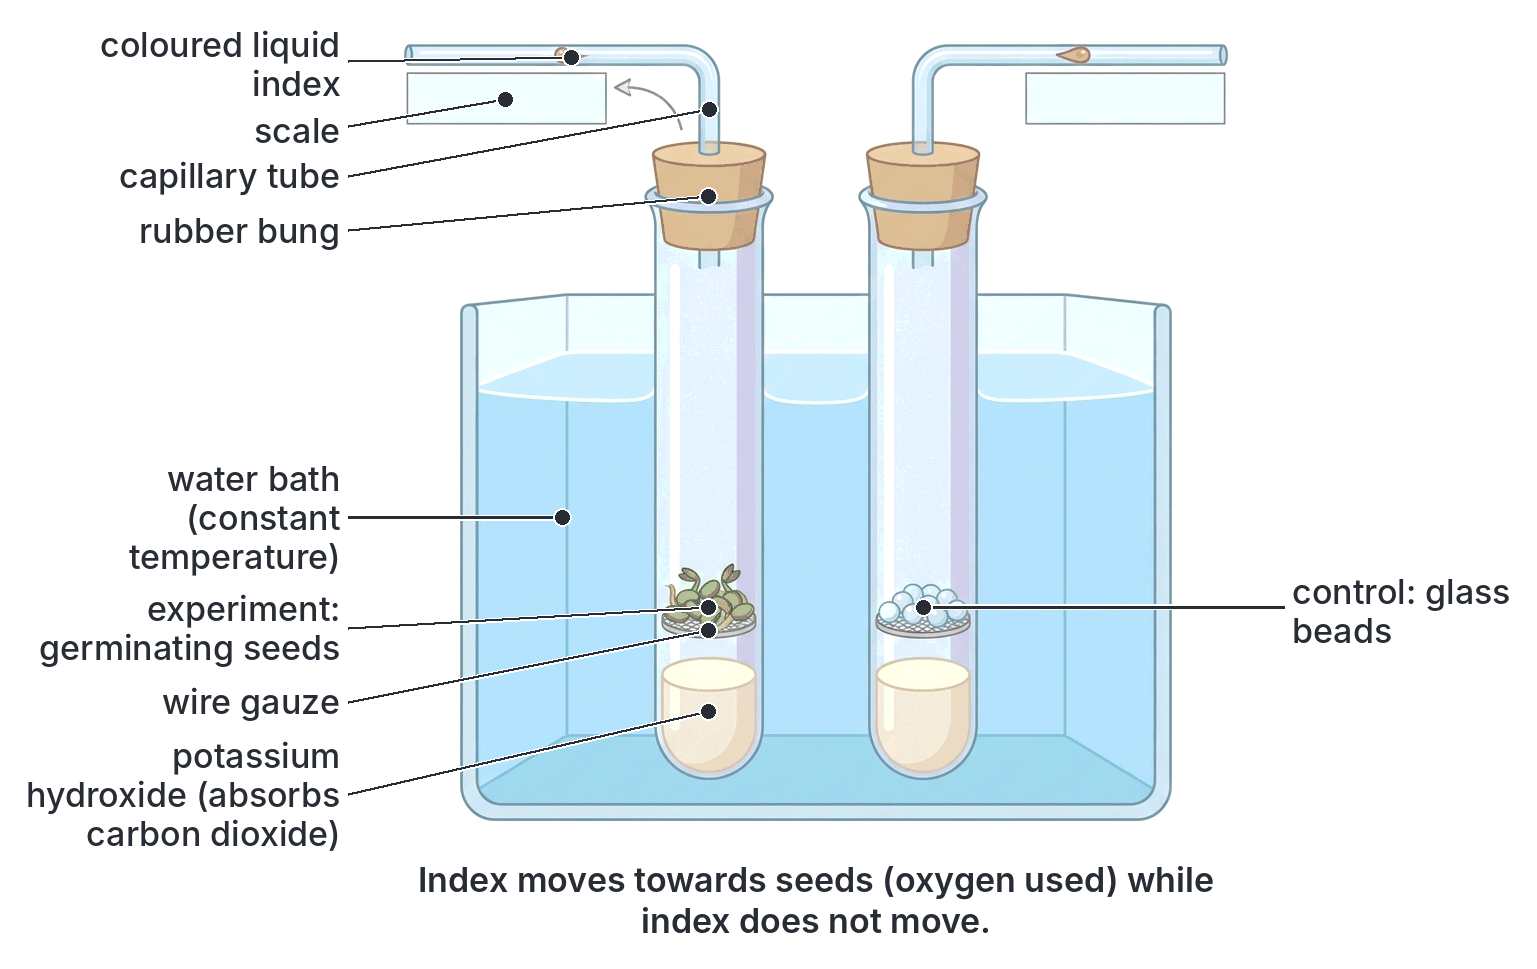
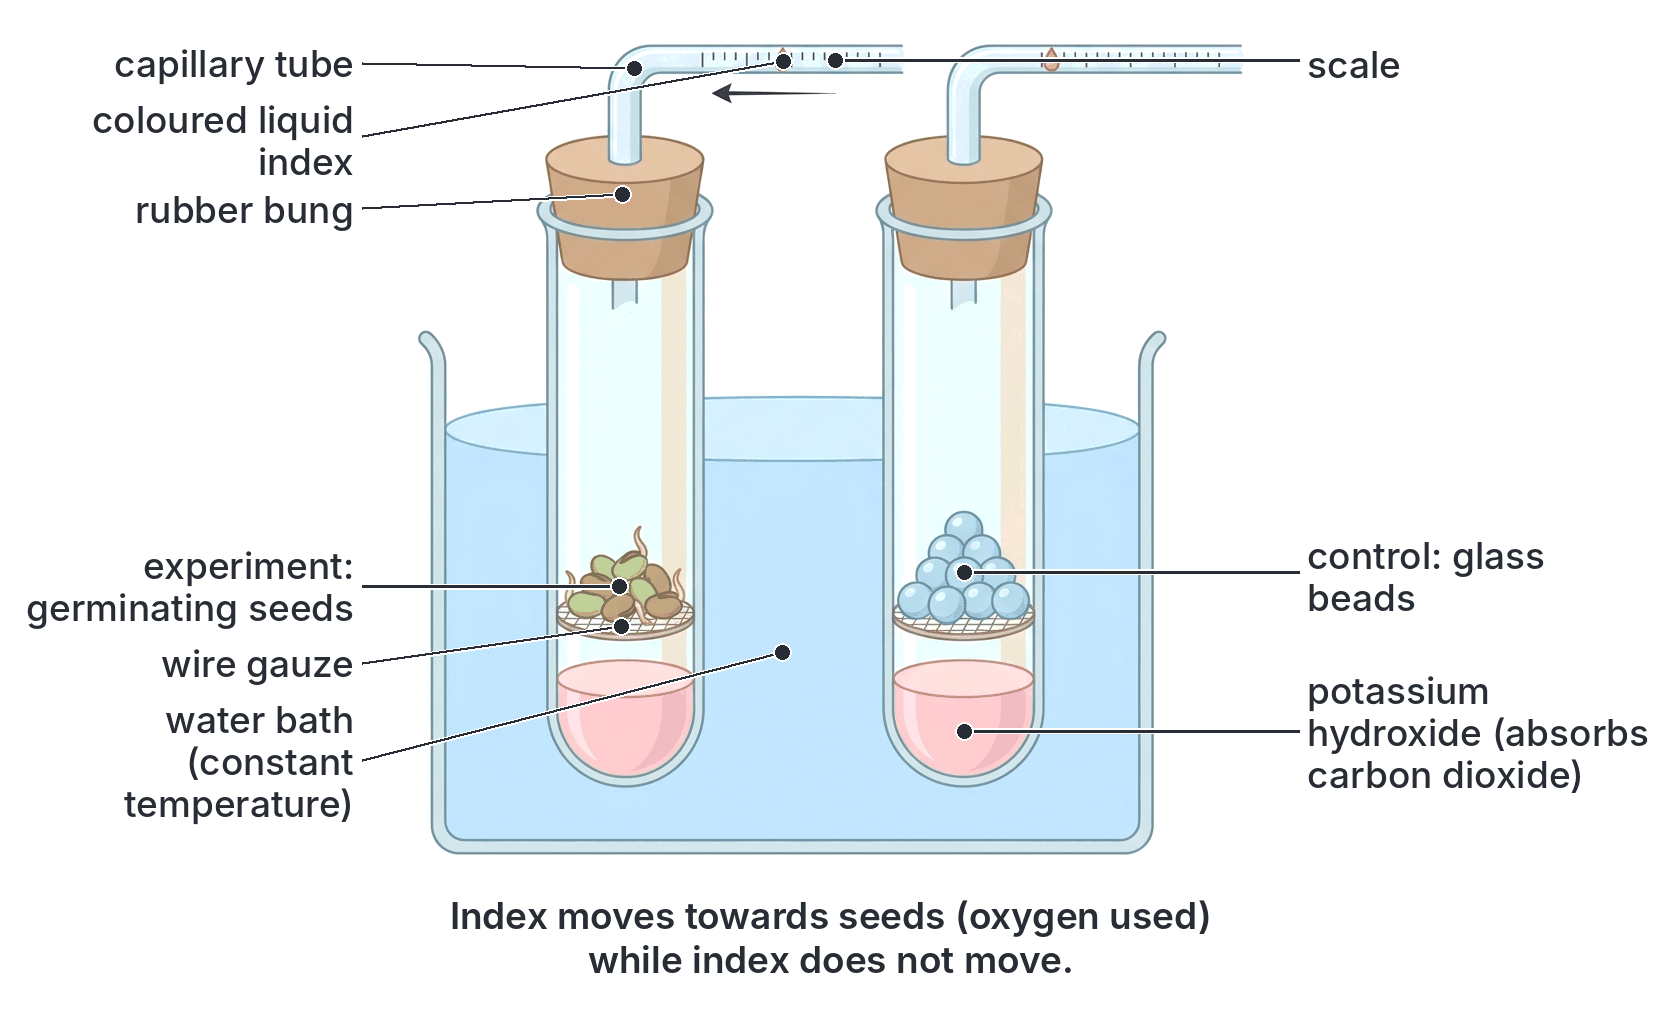
Redo pass biology B4b-cellular-respiration: 3 removed (placeholder restored), 1 regenerated
Claude-Session: https://claude.ai/code/session_01AuzkMMKKHsgCscpXnvCsGG

diff --git a/subjects/biology/B4b-cellular-respiration.md b/subjects/biology/B4b-cellular-respiration.md
@@ -452,7 +452,7 @@ JAMB often shows a diagram of an experiment and asks what it shows, what a parti
 
 **Variation:** instead of lime water, **hydrogencarbonate indicator** can be used: it turns from **red to yellow** as CO₂ from respiration is added. Small organisms (e.g. maggots, woodlice or germinating seeds) can be placed on a gauze platform in a test tube above the indicator, with a control tube containing glass beads.
 
-![An experimental setup demonstrating carbon dioxide production in plant respiration, featuring flasks with solutions, a covered bell jar with a plant, and an aspirator connected in series.](images/B4b-08-plant-respiration-carbon-dioxide.png)
+[IMAGE: Experimental set-up to show that carbon dioxide is produced in respiration, drawn left to right: air entering a flask of potassium hydroxide solution through a tube that dips into the liquid; a delivery tube to a flask of clear lime water; a delivery tube to a bell jar on a glass plate covered with a dark cloth, containing a small potted plant (its pot wrapped in polythene); a delivery tube to a flask of milky lime water; and finally a tube to an aspirator (a large bottle with a tap releasing water). Arrows show the direction of air flow. Labels to add: "air in", "potassium hydroxide solution (absorbs carbon dioxide)", "lime water stays clear", "bell jar", "black cloth (prevents photosynthesis)", "potted plant", "polythene bag over pot", "lime water turns milky", "to aspirator (draws air through)", "direction of air flow". Clean flat textbook style, white background.]
 
 ### Experiment 2: to compare the CO₂ in inhaled and exhaled air
 
@@ -499,7 +499,7 @@ JAMB often shows a diagram of an experiment and asks what it shows, what a parti
 
 **Everyday examples:** heaps of fresh grass cuttings, compost heaps and stores of damp grain become warm (sometimes hot enough to catch fire) because of the respiration of the plant cells and of the microorganisms in them.
 
-![Two inverted vacuum flasks on stands containing germinating seeds and boiled seeds, with thermometers showing higher temperature in the germinating seed flask.](images/B4b-10-germinating-seeds-heat-production.png)
+[IMAGE: Two vacuum flasks side by side, each clamped upside down on a stand, with a thermometer passing through a cotton wool plug into the flask among seeds. Flask A contains germinating bean seeds with small shoots and roots; its thermometer reads higher (red level higher). Flask B contains shrivelled boiled seeds; its thermometer reads lower. A small note shows the starting temperatures as equal. Labels to add: "flask A: germinating seeds (washed in disinfectant)", "flask B (control): boiled seeds (washed in disinfectant)", "vacuum flask (reduces heat loss)", "thermometer", "cotton wool plug", "temperature rises", "temperature unchanged", "clamp and stand". Clean flat textbook style, white background.]
 
 ### Experiment 4: to show that oxygen is used during respiration (the simple respirometer)
 
@@ -691,7 +691,7 @@ Nigeria has a large brewing industry, with many breweries producing lager beers 
 | Harmful: spoilage | Fermentation of sugars | Spoiled fruit juice, jam, honey |
 | Harmful: disease | Growth of yeast in the body | Candidiasis (thrush) caused by *Candida albicans* |
 
-![Diagram showing products of yeast fermentation including bread, beer, palm wine, ethanol fuel, yeast extract, and animal feed surrounding central budding yeast cells, with oral thrush inset.](images/B4b-13-yeast-industrial-fermentation-products.png)
+[IMAGE: An illustrated panel of everyday products made with yeast, arranged around a central drawing of oval budding yeast cells: a loaf of bread and a bowl of puff-puff, a bottle of beer and a calabash of burukutu, a gourd of palm wine beside an oil palm tree with a tapping container, a bottle of ethanol fuel beside cassava roots and sugarcane, a jar of yeast extract with a "B" vitamin symbol, and a bag of animal feed. A small separate corner shows a mouth with white patches representing thrush, marked as harmful. Labels to add: "yeast cells (budding)", "bread and puff-puff (carbon dioxide)", "beer and burukutu (ethanol)", "palm wine (wild yeasts)", "industrial alcohol and fuel", "vitamin B (yeast extract)", "animal feed", "harmful: thrush (Candida)". Clean flat textbook style, white background.]
 
 ## Respiration, photosynthesis and breathing compared
 
